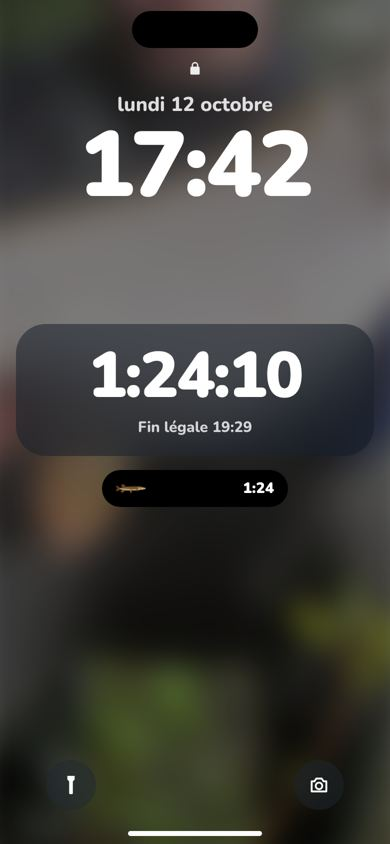
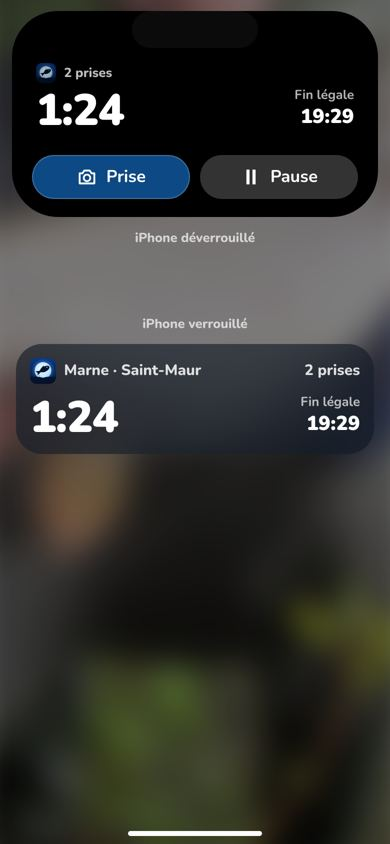
Design : P15 avec boutons Prise et Pause, choix P18 C, P19 A
Claude-Session: https://claude.ai/code/session_01SHD9N8ay5HXbeEQZKxhWVP

diff --git a/docs/design/maquettes/P15-verrouille-B.dc.html b/docs/design/maquettes/P15-verrouille-B.dc.html
@@ -17,25 +17,32 @@ body{margin:0}
 .p15-hl .d{font-size:20px;font-weight:800;opacity:.85}
 .p15-hl .h{font-size:92px;font-weight:900;line-height:1;letter-spacing:-.03em;margin-top:2px;font-variant-numeric:tabular-nums}
 .p15-cad{position:absolute;left:50%;top:60px;margin-left:-8px;width:16px;height:16px;color:#fff;opacity:.9}
-.p15-bt{position:absolute;bottom:34px;width:50px;height:50px;border-radius:25px;background:rgba(30,40,52,.45);-webkit-backdrop-filter:blur(20px);backdrop-filter:blur(20px);display:grid;place-items:center;color:#fff}
-.p15-bt svg{width:22px;height:22px}
 .p15-bar{position:absolute;bottom:8px;left:50%;margin-left:-67px;width:134px;height:5px;border-radius:3px;background:#fff}
-.p15-la{position:absolute;left:16px;right:16px;color:#fff;font-family:var(--police)}
-.p15-ile{position:absolute;left:50%;top:11px;margin-left:-63px;width:126px;height:37px;border-radius:19px;background:#000}
+.p15-la{position:absolute;left:16px;right:16px;color:#fff;background:rgba(18,28,40,.62);-webkit-backdrop-filter:blur(30px);backdrop-filter:blur(30px);font-variant-numeric:tabular-nums}
+.p15-top{display:flex;align-items:center;gap:8px;font-size:15px;font-weight:800}
+.p15-top img{width:26px;height:26px;border-radius:7px}
+.p15-btn{display:flex;align-items:center;justify-content:center;gap:8px;height:44px;border:0;border-radius:22px;color:#fff;font:inherit;font-size:17px;font-weight:800;padding:0 18px;white-space:nowrap}
+.p15-btn svg{width:22px;height:22px;flex:none}
+.ecran button.p15-pri{background:#0D4A85;box-shadow:inset 0 0 0 1px rgba(255,255,255,.22)}
+.ecran button.p15-gl{background:rgba(255,255,255,.2)}
+.p15-cap{position:absolute;left:0;right:0;text-align:center;color:#fff;font-size:13px;font-weight:800;opacity:.7}
+
 </style>
 </helmet>
 <div class="ecran">
 <img class="p15-fond" src="/_blob/084d443133499a1c8e783fc6ededce32" alt="">
 <svg class="p15-cad" viewBox="0 0 24 24" aria-hidden="true"><path fill="currentColor" d="M17 10V8A5 5 0 0 0 7 8v2a2 2 0 0 0-2 2v8a2 2 0 0 0 2 2h10a2 2 0 0 0 2-2v-8a2 2 0 0 0-2-2Zm-8-2a3 3 0 0 1 6 0v2H9Z"/></svg>
 <div class="p15-hl"><div class="d">lundi 12 octobre</div><div class="h">17:42</div></div>
-<div class="p15-la" style="top:300px;color:var(--encre)"><div style="border-radius:24px;background:rgba(250,252,255,.88);-webkit-backdrop-filter:blur(30px);backdrop-filter:blur(30px);overflow:hidden">
-<div style="display:flex;align-items:center;gap:8px;padding:12px 16px 6px"><img src="/_blob/7667ed4766b13859a7e0245c1b4db27c" alt="FishMe" style="width:26px;height:26px;border-radius:7px"><span style="font-size:15px;font-weight:900">Session en cours</span></div>
-<div style="display:flex;align-items:center;gap:12px;height:44px;padding:0 16px;border-bottom:.5px solid rgba(14,26,38,.14);"><span style="width:22px;height:22px;color:var(--marine);display:grid;place-items:center"><svg viewBox="0 0 24 24" aria-hidden="true" style="width:20px;height:20px"><g fill="none" stroke="currentColor" stroke-width="2" stroke-linecap="round"><circle cx="12" cy="12" r="9"/><path d="M12 7v5l3 2"/></g></svg></span><span style="flex:1;font-size:16px;font-weight:800">Durée</span><span style="font-size:16px;font-weight:800;color:var(--encre-douce);font-variant-numeric:tabular-nums">1:24:10</span></div>
-<div style="display:flex;align-items:center;gap:12px;height:44px;padding:0 16px;border-bottom:.5px solid rgba(14,26,38,.14);"><span style="width:22px;height:22px;color:var(--marine);display:grid;place-items:center"><svg viewBox="0 0 24 24" aria-hidden="true" style="width:20px;height:20px"><g fill="none" stroke="currentColor" stroke-width="2" stroke-linecap="round"><circle cx="12" cy="12" r="4"/><path d="M12 2v2M12 20v2M4.9 4.9l1.4 1.4M17.7 17.7l1.4 1.4M2 12h2M20 12h2M4.9 19.1l1.4-1.4M17.7 6.3l1.4-1.4"/></g></svg></span><span style="flex:1;font-size:16px;font-weight:800">Fin légale</span><span style="font-size:16px;font-weight:800;color:var(--encre-douce);font-variant-numeric:tabular-nums">19:29</span></div>
-<div style="display:flex;align-items:center;gap:12px;height:44px;padding:0 16px;border-bottom:.5px solid rgba(14,26,38,.14);"><span style="width:22px;height:22px;color:var(--marine);display:grid;place-items:center"><svg viewBox="0 0 24 24" aria-hidden="true" style="width:20px;height:20px"><g fill="none" stroke="currentColor" stroke-width="2" stroke-linejoin="round"><path d="M4 8h3l2-3h6l2 3h3v11H4Z"/><circle cx="12" cy="13" r="3.6"/></g></svg></span><span style="flex:1;font-size:16px;font-weight:800">Prises</span><span style="font-size:16px;font-weight:800;color:var(--encre-douce);font-variant-numeric:tabular-nums">1</span></div>
-<div style="display:flex;align-items:center;gap:10px;padding:0 16px;height:46px;background:var(--alerte);color:#fff;font-size:15px;font-weight:800"><svg viewBox="0 0 24 24" aria-hidden="true" style="width:20px;height:20px"><path fill="currentColor" d="M13 2 4 14h7l-1 8 9-12h-7Z"/></svg>Orage à 18 h</div></div></div>
-<div class="p15-bt" style="left:46px"><svg viewBox="0 0 24 24" aria-hidden="true"><path fill="currentColor" d="M8 2h8v4l-2 2v13a1 1 0 0 1-1 1h-2a1 1 0 0 1-1-1V8L8 6Z"/></svg></div>
-<div class="p15-bt" style="right:46px"><svg viewBox="0 0 24 24" aria-hidden="true"><g fill="none" stroke="currentColor" stroke-width="2" stroke-linejoin="round"><path d="M4 8h3l2-3h6l2 3h3v11H4Z"/><circle cx="12" cy="13" r="3.6"/></g></svg></div>
+<div class="p15-la" style="top:232px;padding:16px;border-radius:30px">
+<div class="p15-top"><img src="/_blob/7667ed4766b13859a7e0245c1b4db27c" alt="FishMe"><span style="opacity:.85">2 prises</span><span style="margin-left:auto;opacity:.85">Marne · Saint-Maur</span></div>
+<div style="display:flex;align-items:center;justify-content:space-between;margin-top:14px"><div style="font-size:56px;font-weight:900;line-height:1;letter-spacing:-.02em">1:24</div><button class="p15-btn p15-gl" style="width:44px;padding:0" aria-label="Mettre la session en pause"><svg viewBox="0 0 24 24" aria-hidden="true"><path fill="currentColor" d="M7 4h3.4v16H7Zm6.6 0H17v16h-3.4Z"/></svg></button></div>
+<div style="display:flex;align-items:baseline;gap:8px;margin-top:6px;opacity:.85"><span style="font-size:15px;font-weight:700">Fin légale</span><span style="font-size:20px;font-weight:900">19:29</span></div><div style="display:flex;align-items:center;gap:6px;margin-top:12px;font-size:15px;font-weight:800;color:#E8571C"><svg viewBox="0 0 24 24" aria-hidden="true" style="width:16px;height:16px"><path fill="currentColor" d="M13 2 4 14h7l-1 8 9-12h-7Z"/></svg>Orage à 18 h</div>
+<button class="p15-btn p15-pri" style="width:100%;height:54px;margin-top:14px;font-size:19px" aria-label="Ajouter une prise, ouvre l'appareil photo"><svg viewBox="0 0 24 24" aria-hidden="true"><g fill="none" stroke="currentColor" stroke-width="2" stroke-linejoin="round"><path d="M4 8h3l2-3h6l2 3h3v11H4Z"/><circle cx="12" cy="13" r="3.6"/></g></svg>Ajouter une prise</button></div>
+<div class="p15-la" style="top:536px;padding:16px;border-radius:30px">
+<div class="p15-top"><img src="/_blob/7667ed4766b13859a7e0245c1b4db27c" alt="FishMe"><span style="opacity:.85">2 prises</span><span style="margin-left:auto;opacity:.85">En pause</span></div>
+<div style="display:flex;align-items:center;justify-content:space-between;margin-top:14px"><div style="font-size:56px;font-weight:900;line-height:1;letter-spacing:-.02em;opacity:.45">1:24</div><button class="p15-btn p15-gl" style="padding:0 16px" aria-label="Reprendre la session"><svg viewBox="0 0 24 24" aria-hidden="true"><path fill="currentColor" d="M7 4.5v15a1 1 0 0 0 1.5.86l12.5-7.5a1 1 0 0 0 0-1.72L8.5 3.64A1 1 0 0 0 7 4.5Z"/></svg>Reprendre</button></div>
+<div style="display:flex;align-items:baseline;gap:8px;margin-top:6px;opacity:.85"><span style="font-size:15px;font-weight:700">Fin légale</span><span style="font-size:20px;font-weight:900">19:29</span></div>
+<button class="p15-btn p15-pri" style="width:100%;height:54px;margin-top:14px;font-size:19px" aria-label="Ajouter une prise, ouvre l'appareil photo"><svg viewBox="0 0 24 24" aria-hidden="true"><g fill="none" stroke="currentColor" stroke-width="2" stroke-linejoin="round"><path d="M4 8h3l2-3h6l2 3h3v11H4Z"/><circle cx="12" cy="13" r="3.6"/></g></svg>Ajouter une prise</button></div>
 <div class="p15-bar"></div>
 </div>
 </x-dc>

diff --git a/docs/design/maquettes/P15-verrouille-C.dc.html b/docs/design/maquettes/P15-verrouille-C.dc.html
@@ -2,7 +2,7 @@
 <html lang="fr">
 <head>
 <meta charset="utf-8">
-<title>Écran verrouillé · C Sujet</title>
+<title>Île dynamique · C Sujet</title>
 <script src="./support.js"></script>
 <link rel="stylesheet" href="/_blob/69bbcf2d203990410cc97809f5b38487">
 </head>
@@ -17,24 +17,29 @@ body{margin:0}
 .p15-hl .d{font-size:20px;font-weight:800;opacity:.85}
 .p15-hl .h{font-size:92px;font-weight:900;line-height:1;letter-spacing:-.03em;margin-top:2px;font-variant-numeric:tabular-nums}
 .p15-cad{position:absolute;left:50%;top:60px;margin-left:-8px;width:16px;height:16px;color:#fff;opacity:.9}
-.p15-bt{position:absolute;bottom:34px;width:50px;height:50px;border-radius:25px;background:rgba(30,40,52,.45);-webkit-backdrop-filter:blur(20px);backdrop-filter:blur(20px);display:grid;place-items:center;color:#fff}
-.p15-bt svg{width:22px;height:22px}
 .p15-bar{position:absolute;bottom:8px;left:50%;margin-left:-67px;width:134px;height:5px;border-radius:3px;background:#fff}
-.p15-la{position:absolute;left:16px;right:16px;color:#fff;font-family:var(--police)}
-.p15-ile{position:absolute;left:50%;top:11px;margin-left:-63px;width:126px;height:37px;border-radius:19px;background:#000}
+.p15-la{position:absolute;left:16px;right:16px;color:#fff;background:rgba(18,28,40,.62);-webkit-backdrop-filter:blur(30px);backdrop-filter:blur(30px);font-variant-numeric:tabular-nums}
+.p15-top{display:flex;align-items:center;gap:8px;font-size:15px;font-weight:800}
+.p15-top img{width:26px;height:26px;border-radius:7px}
+.p15-btn{display:flex;align-items:center;justify-content:center;gap:8px;height:44px;border:0;border-radius:22px;color:#fff;font:inherit;font-size:17px;font-weight:800;padding:0 18px;white-space:nowrap}
+.p15-btn svg{width:22px;height:22px;flex:none}
+.ecran button.p15-pri{background:#0D4A85;box-shadow:inset 0 0 0 1px rgba(255,255,255,.22)}
+.ecran button.p15-gl{background:rgba(255,255,255,.2)}
+.p15-cap{position:absolute;left:0;right:0;text-align:center;color:#fff;font-size:13px;font-weight:800;opacity:.7}
+
 </style>
 </helmet>
 <div class="ecran">
 <img class="p15-fond" src="/_blob/084d443133499a1c8e783fc6ededce32" alt="">
-<svg class="p15-cad" viewBox="0 0 24 24" aria-hidden="true"><path fill="currentColor" d="M17 10V8A5 5 0 0 0 7 8v2a2 2 0 0 0-2 2v8a2 2 0 0 0 2 2h10a2 2 0 0 0 2-2v-8a2 2 0 0 0-2-2Zm-8-2a3 3 0 0 1 6 0v2H9Z"/></svg>
-<div class="p15-hl"><div class="d">lundi 12 octobre</div><div class="h">17:42</div></div>
-<div class="p15-ile"></div>
-<div class="p15-la" style="top:324px;padding:20px 20px 18px;border-radius:30px;background:rgba(18,28,40,.5);-webkit-backdrop-filter:blur(30px);backdrop-filter:blur(30px);text-align:center">
-<div style="font-size:64px;font-weight:900;line-height:1;font-variant-numeric:tabular-nums;letter-spacing:-.03em">1:24:10</div>
-<div style="font-size:15px;font-weight:800;opacity:.8;margin-top:10px">Fin légale 19:29</div></div>
-<div style="position:absolute;left:50%;top:470px;margin-left:-93px;width:186px;height:37px;border-radius:19px;background:#000;display:flex;align-items:center;justify-content:space-between;padding:0 14px;color:#fff;font-family:var(--police)"><img src="/_blob/325cfac7b539aef705c1b3f944fa8bcf" alt="Brochet" style="width:30px;height:14px;object-fit:contain"><span style="font-size:15px;font-weight:900;font-variant-numeric:tabular-nums">1:24</span></div>
-<div class="p15-bt" style="left:46px"><svg viewBox="0 0 24 24" aria-hidden="true"><path fill="currentColor" d="M8 2h8v4l-2 2v13a1 1 0 0 1-1 1h-2a1 1 0 0 1-1-1V8L8 6Z"/></svg></div>
-<div class="p15-bt" style="right:46px"><svg viewBox="0 0 24 24" aria-hidden="true"><g fill="none" stroke="currentColor" stroke-width="2" stroke-linejoin="round"><path d="M4 8h3l2-3h6l2 3h3v11H4Z"/><circle cx="12" cy="13" r="3.6"/></g></svg></div>
+<div style="position:absolute;left:12px;right:12px;top:11px;height:206px;border-radius:46px;background:#000;color:#fff;font-variant-numeric:tabular-nums">
+<div style="position:absolute;left:50%;top:0;margin-left:-63px;width:126px;height:37px;border-radius:19px;background:#0b0b0c"></div>
+<div style="position:absolute;left:24px;right:24px;top:52px;display:flex;align-items:flex-end;justify-content:space-between"><div><div class="p15-top" style="font-size:13px;opacity:.75"><img style="width:20px;height:20px;border-radius:6px" src="/_blob/7667ed4766b13859a7e0245c1b4db27c" alt="FishMe"><span>2 prises</span></div><div style="font-size:44px;font-weight:900;line-height:1;letter-spacing:-.02em;margin-top:6px">1:24</div></div><div style="text-align:right;padding-bottom:3px"><div style="font-size:13px;font-weight:700;opacity:.7">Fin légale</div><div style="font-size:20px;font-weight:900">19:29</div></div></div>
+<div style="position:absolute;left:20px;right:20px;bottom:18px;display:flex;gap:10px"><button class="p15-btn p15-pri" style="flex:1" aria-label="Ajouter une prise, ouvre l'appareil photo"><svg viewBox="0 0 24 24" aria-hidden="true"><g fill="none" stroke="currentColor" stroke-width="2" stroke-linejoin="round"><path d="M4 8h3l2-3h6l2 3h3v11H4Z"/><circle cx="12" cy="13" r="3.6"/></g></svg>Prise</button><button class="p15-btn p15-gl" style="flex:1" aria-label="Mettre la session en pause"><svg viewBox="0 0 24 24" aria-hidden="true"><path fill="currentColor" d="M7 4h3.4v16H7Zm6.6 0H17v16h-3.4Z"/></svg>Pause</button></div></div>
+<div class="p15-cap" style="top:230px">iPhone déverrouillé</div>
+<div class="p15-cap" style="top:316px">iPhone verrouillé</div>
+<div class="p15-la" style="top:344px;padding:14px;border-radius:26px">
+<div class="p15-top"><img src="/_blob/7667ed4766b13859a7e0245c1b4db27c" alt="FishMe"><span style="opacity:.85">Marne · Saint-Maur</span><span style="margin-left:auto;opacity:.85">2 prises</span></div>
+<div style="display:flex;align-items:flex-end;justify-content:space-between;margin-top:10px"><div style="font-size:44px;font-weight:900;line-height:1;letter-spacing:-.02em">1:24</div><div style="text-align:right;padding-bottom:3px"><div style="font-size:13px;font-weight:700;opacity:.7">Fin légale</div><div style="font-size:20px;font-weight:900">19:29</div></div></div></div>
 <div class="p15-bar"></div>
 </div>
 </x-dc>

diff --git a/docs/design/maquettes/P15-verrouille-A.dc.html b/docs/design/maquettes/P15-verrouille-A.dc.html
@@ -17,24 +17,26 @@ body{margin:0}
 .p15-hl .d{font-size:20px;font-weight:800;opacity:.85}
 .p15-hl .h{font-size:92px;font-weight:900;line-height:1;letter-spacing:-.03em;margin-top:2px;font-variant-numeric:tabular-nums}
 .p15-cad{position:absolute;left:50%;top:60px;margin-left:-8px;width:16px;height:16px;color:#fff;opacity:.9}
-.p15-bt{position:absolute;bottom:34px;width:50px;height:50px;border-radius:25px;background:rgba(30,40,52,.45);-webkit-backdrop-filter:blur(20px);backdrop-filter:blur(20px);display:grid;place-items:center;color:#fff}
-.p15-bt svg{width:22px;height:22px}
 .p15-bar{position:absolute;bottom:8px;left:50%;margin-left:-67px;width:134px;height:5px;border-radius:3px;background:#fff}
-.p15-la{position:absolute;left:16px;right:16px;color:#fff;font-family:var(--police)}
-.p15-ile{position:absolute;left:50%;top:11px;margin-left:-63px;width:126px;height:37px;border-radius:19px;background:#000}
+.p15-la{position:absolute;left:16px;right:16px;color:#fff;background:rgba(18,28,40,.62);-webkit-backdrop-filter:blur(30px);backdrop-filter:blur(30px);font-variant-numeric:tabular-nums}
+.p15-top{display:flex;align-items:center;gap:8px;font-size:15px;font-weight:800}
+.p15-top img{width:26px;height:26px;border-radius:7px}
+.p15-btn{display:flex;align-items:center;justify-content:center;gap:8px;height:44px;border:0;border-radius:22px;color:#fff;font:inherit;font-size:17px;font-weight:800;padding:0 18px;white-space:nowrap}
+.p15-btn svg{width:22px;height:22px;flex:none}
+.ecran button.p15-pri{background:#0D4A85;box-shadow:inset 0 0 0 1px rgba(255,255,255,.22)}
+.ecran button.p15-gl{background:rgba(255,255,255,.2)}
+.p15-cap{position:absolute;left:0;right:0;text-align:center;color:#fff;font-size:13px;font-weight:800;opacity:.7}
+
 </style>
 </helmet>
 <div class="ecran">
 <img class="p15-fond" src="/_blob/084d443133499a1c8e783fc6ededce32" alt="">
 <svg class="p15-cad" viewBox="0 0 24 24" aria-hidden="true"><path fill="currentColor" d="M17 10V8A5 5 0 0 0 7 8v2a2 2 0 0 0-2 2v8a2 2 0 0 0 2 2h10a2 2 0 0 0 2-2v-8a2 2 0 0 0-2-2Zm-8-2a3 3 0 0 1 6 0v2H9Z"/></svg>
 <div class="p15-hl"><div class="d">lundi 12 octobre</div><div class="h">17:42</div></div>
-<div class="p15-la" style="top:318px;padding:14px 16px 16px;border-radius:26px;background:rgba(18,28,40,.62);-webkit-backdrop-filter:blur(30px);backdrop-filter:blur(30px)">
-<div style="display:flex;align-items:center;gap:8px"><img src="/_blob/7667ed4766b13859a7e0245c1b4db27c" alt="FishMe" style="width:26px;height:26px;border-radius:7px"><span style="font-size:15px;font-weight:800;opacity:.85">FishMe</span><span style="margin-left:auto;font-size:15px;font-weight:800;opacity:.85">1 prise</span></div>
-<div style="display:flex;align-items:flex-end;justify-content:space-between;margin-top:12px"><div style="font-size:44px;font-weight:900;line-height:1;font-variant-numeric:tabular-nums;letter-spacing:-.02em">1:24:10</div><div style="text-align:right;padding-bottom:3px"><div style="font-size:13px;font-weight:700;opacity:.7">Fin légale</div><div style="font-size:20px;font-weight:900;font-variant-numeric:tabular-nums">19:29</div></div></div>
-<div style="position:relative;height:6px;border-radius:3px;background:rgba(255,255,255,.22);margin-top:16px"><div style="position:absolute;left:0;top:0;bottom:0;width:44%;border-radius:3px;background:#fff"></div><div style="position:absolute;left:44%;top:-4px;width:14px;height:14px;margin-left:-7px;border-radius:7px;background:#fff"></div></div>
-<div style="display:flex;justify-content:space-between;margin-top:8px;font-size:13px;font-weight:700;opacity:.7;font-variant-numeric:tabular-nums"><span>16:18</span><span>19:29</span></div></div>
-<div class="p15-bt" style="left:46px"><svg viewBox="0 0 24 24" aria-hidden="true"><path fill="currentColor" d="M8 2h8v4l-2 2v13a1 1 0 0 1-1 1h-2a1 1 0 0 1-1-1V8L8 6Z"/></svg></div>
-<div class="p15-bt" style="right:46px"><svg viewBox="0 0 24 24" aria-hidden="true"><g fill="none" stroke="currentColor" stroke-width="2" stroke-linejoin="round"><path d="M4 8h3l2-3h6l2 3h3v11H4Z"/><circle cx="12" cy="13" r="3.6"/></g></svg></div>
+<div class="p15-la" style="top:300px;padding:14px 14px 14px;border-radius:26px">
+<div class="p15-top"><img src="/_blob/7667ed4766b13859a7e0245c1b4db27c" alt="FishMe"><span style="opacity:.85">Marne · Saint-Maur</span><span style="margin-left:auto;opacity:.85">2 prises</span></div>
+<div style="display:flex;align-items:flex-end;justify-content:space-between;margin-top:10px"><div style="font-size:44px;font-weight:900;line-height:1;letter-spacing:-.02em">1:24</div><div style="text-align:right;padding-bottom:3px"><div style="font-size:13px;font-weight:700;opacity:.7">Fin légale</div><div style="font-size:20px;font-weight:900">19:29</div></div></div>
+<div style="display:flex;gap:10px;margin-top:14px"><button class="p15-btn p15-pri" style="flex:1" aria-label="Ajouter une prise, ouvre l'appareil photo"><svg viewBox="0 0 24 24" aria-hidden="true"><g fill="none" stroke="currentColor" stroke-width="2" stroke-linejoin="round"><path d="M4 8h3l2-3h6l2 3h3v11H4Z"/><circle cx="12" cy="13" r="3.6"/></g></svg>Prise</button><button class="p15-btn p15-gl" style="flex:1" aria-label="Mettre la session en pause"><svg viewBox="0 0 24 24" aria-hidden="true"><path fill="currentColor" d="M7 4h3.4v16H7Zm6.6 0H17v16h-3.4Z"/></svg>Pause</button></div></div>
 <div class="p15-bar"></div>
 </div>
 </x-dc>

diff --git a/docs/design/cartographie.md b/docs/design/cartographie.md
@@ -24,7 +24,7 @@ Navigation : barre d'onglets iOS à 3 volets, Pescedex · Carte · Club, ouvertu
 
 ## G4 · Session
 - **P14 Session en cours** [Session/BandeauSession] : chrono 1:24:10, fin légale 19:29, prises de la session en images, gros bouton « Ajouter une prise » (appareil photo), lien « Terminer la session ». La carte reste visible.
-- **P15 Écran verrouillé** [L10, Live Activity] : écran verrouillé de l'iPhone avec l'activité en direct FishMe : chrono, fin légale, nombre de prises, alerte orage éventuelle. Dessiner l'écran verrouillé (heure 17:42 en grand, fond photo floutée) et l'activité.
+- **P15 Écran verrouillé** [L10, Live Activity] : écran verrouillé de l'iPhone avec l'activité en direct FishMe : chrono, fin légale, nombre de prises, alerte orage éventuelle. Dessiner l'écran verrouillé (heure 17:42 en grand, fond photo floutée) et l'activité. Boutons App Intents dans l'activité (iOS 17+) : « Pause » agit sans ouvrir l'app, « Ajouter une prise » ouvre l'appareil photo (après Face ID si verrouillé). A : deux boutons côte à côte ; B : un grand bouton + pause ronde, état « En pause » (Reprendre) ; C : Dynamic Island déployée + bannière simple.
 - **P16 Fin de session** [Session, BlocConditionsPriseView] : résumé : durée 1 h 24, prises (le brochet), conditions de la sortie gardées (14°, Marne 1,42 m, pression), bouton « Terminer ». Si c'est la 1re session : c'est ici que le paywall s'ouvre ensuite (et se ferme).
 - **P17 Mes sorties** [Collection/BredouilleView, historique] : historique des sorties avec leurs conditions ; une sortie bredouille est montrée sans honte (« Bredouille, ça arrive : 2 h sur la Marne ») ; chaque sortie : date, spot, durée, prises en images.
 

diff --git a/docs/design/choix.md b/docs/design/choix.md
@@ -19,3 +19,5 @@ Direction retenue pour chaque page de la toile (A · Plans, B · Réglages, C ·
 | P14 Session en cours | C · Sujet | 16 oct. 2h41 |
 | P16 Fin de session | A · Plans | 16 oct. 2h42 |
 | P17 Mes sorties | A · Plans | 16 oct. 2h42 |
+| P18 Photo de la prise | C · Sujet | 16 oct. 2h43 |
+| P19 Espèce proposée | A · Plans | 16 oct. 2h43 |
